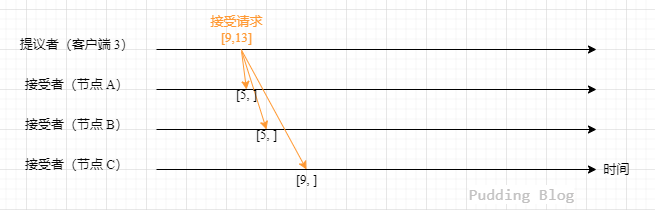
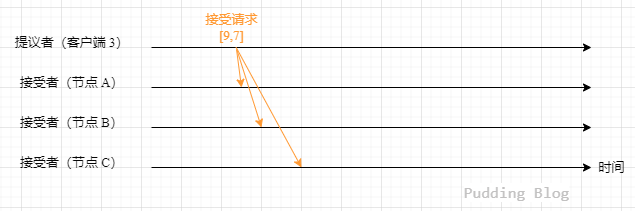
update post

diff --git a/_posts/2022-12-14-图解 Paxos 算法.md b/_posts/2022-12-14-图解 Paxos 算法.md
@@ -118,12 +118,12 @@ Lamport 提出的 Paxos 算法包括两个部分：
 
 <ul>
     <li>客户端 3 接收到节点 A, B, C 的准备响应后，向节点 A, B, C 发送接受请求。这里需要特点指出，客户端 3 会根据响应中的提案编号最大的提案的值，设置接受请求的值。</li>
-    <li>由于在准备响应中，已包含提案 [5, "7"]，故客户端 3 将接受请求的提案编号设置为 9，提案值设置为 "13" 即接受请求的提案为 [9, "13"]</li>
+    <li>由于在准备响应中，已包含提案 [5, "7"]，故客户端 3 将接受请求的提案编号设置为 9，提案值设置为 "7" 即接受请求的提案为 [9, "7"]</li>
 </ul>
 
 ![新接受流程1](pho10.png "图10")
 
-&emsp;&emsp;节点 A, B, C 接收到客户端 3 的接受请求，由于提案编号 9 不小于三个节点承诺可以通过的最小提案编号，故均通过提案 [9, "13"]。
+&emsp;&emsp;节点 A, B, C 接收到客户端 3 的接受请求，由于提案编号 9 不小于三个节点承诺可以通过的最小提案编号，故均通过提案 [9, "7"]。
 
 ![新接受流程2](pho11.png "图11")
 
